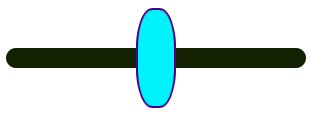
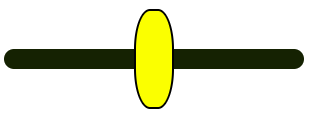
1010 21:20

Changed region(s): [[0.0, 0.0517, 0.9839, 0.9569]]

diff --git a/adjustment_throttle.html b/adjustment_throttle.html
@@ -38,10 +38,10 @@
                 </tr>
                 <tr>
                     <td></td>
-                    <td align="center"><input type="button" id="d1" value="送信" onclick="func21();func11()"></td>
-                    <td align="center"><input type="button" id="d2" value="送信" onclick="func22();func12()"></td>
-                    <td align="center"><input type="button" id="d3" value="送信" onclick="func23();func13()"></td>
-                    <td align="center"><input type="button" id="d3" value="送信" onclick="func24();func14()"></td>
+                    <td align="center"><input type="button" id="d1" value="送信" onclick="func21();func11();Graph()"></td>
+                    <td align="center"><input type="button" id="d2" value="送信" onclick="func22();func12();Graph()"></td>
+                    <td align="center"><input type="button" id="d3" value="送信" onclick="func23();func13();Graph()"></td>
+                    <td align="center"><input type="button" id="d3" value="送信" onclick="func24();func14();Graph()"></td>
                 </tr>   
               </tbody>
             </table>
@@ -49,6 +49,15 @@
         </tr>
     </div>
 <script>
+webiopi().ready(R1);
+
+function R1(){
+    webiopi().callMacro("Load31",1,Back11);
+    webiopi().callMacro("Load32",1,Back12);
+    webiopi().callMacro("Load33",1,Back13);
+    webiopi().callMacro("Load34",1,Back14);
+}
+
 function Graph(){
     webiopi().callMacro("GetGraph");
     Display();

diff --git a/controller_left.html b/controller_left.html
@@ -65,6 +65,7 @@ function calc(){
  //緊急停止ボタン  STOP pin21
  function brake_on(){
    webiopi().callMacro('BRAKEon',1);
+   webiopi().callMacro('GET2',0);
    navigator.vibrate([100]);
    brake_value = 1;
 
@@ -73,6 +74,7 @@ function calc(){
  function brake_off(){
    webiopi().callMacro('BRAKEoff',1);
    brake_value = 0;
+   func3();
  }
 
  function vib1(){

diff --git a/controller_right.html b/controller_right.html
@@ -65,6 +65,7 @@ function calc(){
  //緊急停止ボタン  STOP pin21
  function brake_on(){
    webiopi().callMacro('BRAKEon',1);
+   webiopi().callMacro('GET2',0);
    navigator.vibrate([100]);
    brake_value = 1;
 
@@ -73,6 +74,7 @@ function calc(){
  function brake_off(){
    webiopi().callMacro('BRAKEoff',1);
    brake_value = 0;
+   func3();
  }
 
  function vib1(){

diff --git a/controller_left.css b/controller_left.css
@@ -13,11 +13,11 @@ body{
   }
   input[type=range]::-webkit-slider-thumb{
     -webkit-appearance:none;
-    background:hsl(182, 90%, 61%);
+    background:yellow;
     height:50px;
     width:20px;
     border-radius:40%;
-    border: 1px solid rgb(66, 32, 129);
+    border: 1px solid black;
   }
   input[type=range]::-ms-tooltip{
     display:none;

diff --git a/controller_right.css b/controller_right.css
@@ -13,11 +13,11 @@ body{
   }
   input[type=range]::-webkit-slider-thumb{
     -webkit-appearance:none;
-    background:hsl(182, 90%, 61%);
+    background:yellow;
     height:50px;
     width:20px;
     border-radius:40%;
-    border: 1px solid rgb(66, 32, 129);
+    border: 1px solid black;
   }
   input[type=range]::-ms-tooltip{
     display:none;

diff --git a/menu.html b/menu.html
@@ -22,7 +22,8 @@
         <a href="power.html" style="color:#fff;">POWER</a>
     </div>
     <div class="menu" align="center">
-        <h3 id="title">Team A</h3>
+        <h3 id="title">MENU --Team B--</h3>
+        <h6>BBBBBBBBBBBBBCCCCCCCCCCCCCCC</h6>
         <tr>
           <td>
             <table id="table1" class="t1">

diff --git a/adjustment_steering.html b/adjustment_steering.html
@@ -45,6 +45,13 @@
         </tr>
     </div>
 <script>
+webiopi().ready(R1);
+
+function R1(){
+    webiopi().callMacro("Load11",1,Back11);
+    webiopi().callMacro("Load12",1,Back12);
+    webiopi().callMacro("Load13",1,Back13);
+}
 
 function func11(){
     var g1 = document.getElementById("a1");

diff --git a/adjustment_brake.html b/adjustment_brake.html
@@ -44,6 +44,12 @@
         </tr>
     </div>
 <script>
+webiopi().ready(R1);
+
+function R1(){
+    webiopi().callMacro("Load41",1,Back13);
+    webiopi().callMacro("Load42",1,Back14);
+}
 function func11(){
     var h1 = document.getElementById("a2"); //free
     var i1 = h1.value;

diff --git a/power.html b/power.html
@@ -9,6 +9,7 @@
   </head>
   <body>
     <div align="center">
+      <a href="menu.html" style="color:black;">menu</a><br>
       <table>
         <tr>
           <td>

diff --git a/menu.css b/menu.css
@@ -33,7 +33,7 @@ overflow: hidden;
 }
 */
 #title{
-    background-color: hsl(182, 90%, 61%);
+    background-color: yellow;
 }
 
 table.t1,.t2,.t3{

diff --git a/adjustment_throttle.css b/adjustment_throttle.css
@@ -6,5 +6,5 @@ table th{
     width:50px;
   }
 #Graph{
-  background-color: cyan;
+  background-color: yellow;
 }

diff --git a/Graph.py b/Graph.py
@@ -1,0 +1,64 @@
+import matplotlib.pyplot as plt
+import subprocess as proc
+
+
+path = "/home/pi/Desktop/TeamB/" 
+graphfile1 = "graph1.png"
+graphfile2 = "graph2.png"
+filename21 = "mini_thro.txt" #最小値
+filename22 = "maxi_thro.txt" #最大値
+filename23 = "x_thro.txt" #傾き変わる点(x)
+filename24 = "y_thro.txt" #傾き変わる点(y)
+
+
+
+def makeGraph():
+    range12=[]
+    x = []
+    f = open(path+filename21, "r")
+    mini21 = int(f.read())
+    f.close()
+    f = open(path+filename22, "r")
+    maxi21 = int(f.read())
+    f.close()
+    f = open(path+filename23, "r")
+    x21 = int(f.read())
+    f.close()
+    f = open(path+filename24, "r")
+    y21 = int(f.read())
+    f.close()
+
+    a21 = y21-mini21
+    b21 = maxi21-y21
+    c21 = float(a21/x21)
+    d21 = float(b21/(200-x21))
+    e21 = int(maxi21-d21*200)
+
+    for i in range(0,201):
+        if i <=x21:
+            range12.append(int(c21*i+mini21))
+        else:
+            range12.append(int(d21*i+e21))
+
+    for i in range(0,201):
+        x.append(i)
+
+    #fig = plt.figure()  #新規のグラフを描画
+    plt.xlim([0,200])
+    plt.ylim([1000,2000])
+    plt.plot(x, range12)
+    
+    plt.savefig(path+graphfile1)
+    plt.close("all")
+
+def main():
+    makeGraph()
+    aaa=path+graphfile1
+    bbb=path+graphfile2
+    ccc = "sudo cp "+aaa+" "+bbb
+    #proc.call("sudo cp "+path+graphfile1 path+graphfile2, shell=True)
+    proc.call(ccc, shell=True)
+
+
+if __name__ =='__main__':
+    main()
